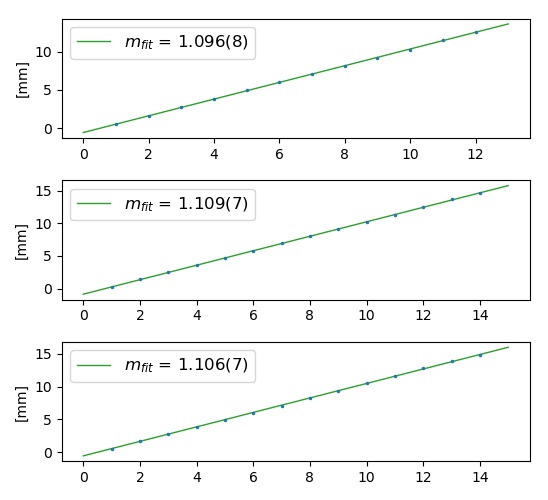
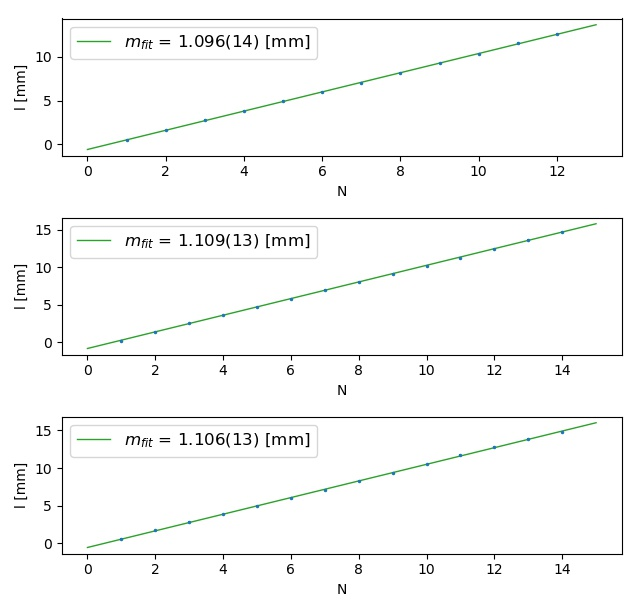
fibre

diff --git a/Fibre-ottiche/dati-e-script/polarizzazione.py b/Fibre-ottiche/dati-e-script/polarizzazione.py
@@ -1,5 +1,6 @@
 import pylab as py
 from lab import fit_curve, xe
+from scipy.optimize import curve_fit
 
 files = ['cap16.txt',
          'cap13.txt',
@@ -31,22 +32,29 @@ for i in range(len(files)):
     def retta(x, a, b):
         return a*x + b
     
-    out = fit_curve(retta, n, l, dy=dl, p0=[1,1], absolute_sigma=True)
-    par = out.par
-    cov = out.cov
+    par, cov = curve_fit(retta, n, l, sigma = dl, p0 = [1,1], absolute_sigma=True)
+    #par = out.par
+    #cov = out.cov
     err = py.sqrt(py.diag(cov))
     m_fit = par[0]
     q_fit = par[1]
     dm_fit = err[0]
     dq_fit = err[1]
+    dm_fit = py.sqrt(dm_fit**2+(0.01*m_fit)**2)
     m.append(m_fit)
     q.append(q_fit)
     dm.append(dm_fit)
     dq.append(dq_fit)
     print('m = %s  q = %s' %(xe(m_fit, dm_fit), xe(q_fit, dq_fit)))
     x = py.linspace(0, len(n)+1, 100)
-    py.plot(x, retta(x, *par), linewidth=1, color ='tab:green' ,label='{} = {}'.format('$m_{fit}$', xe(m_fit, dm_fit)))
+    py.plot(x, retta(x, *par), linewidth=1, color ='tab:green' ,label='{} = {} [mm]'.format('$m_{fit}$', xe(m_fit, dm_fit)))
     py.legend(fontsize='large')
-    py.ylabel('[mm]')
-    py.xlabel('')
+    py.ylabel('l [mm]')
+    py.xlabel('N')
+
+    
+    
+    
+    
+    
 
